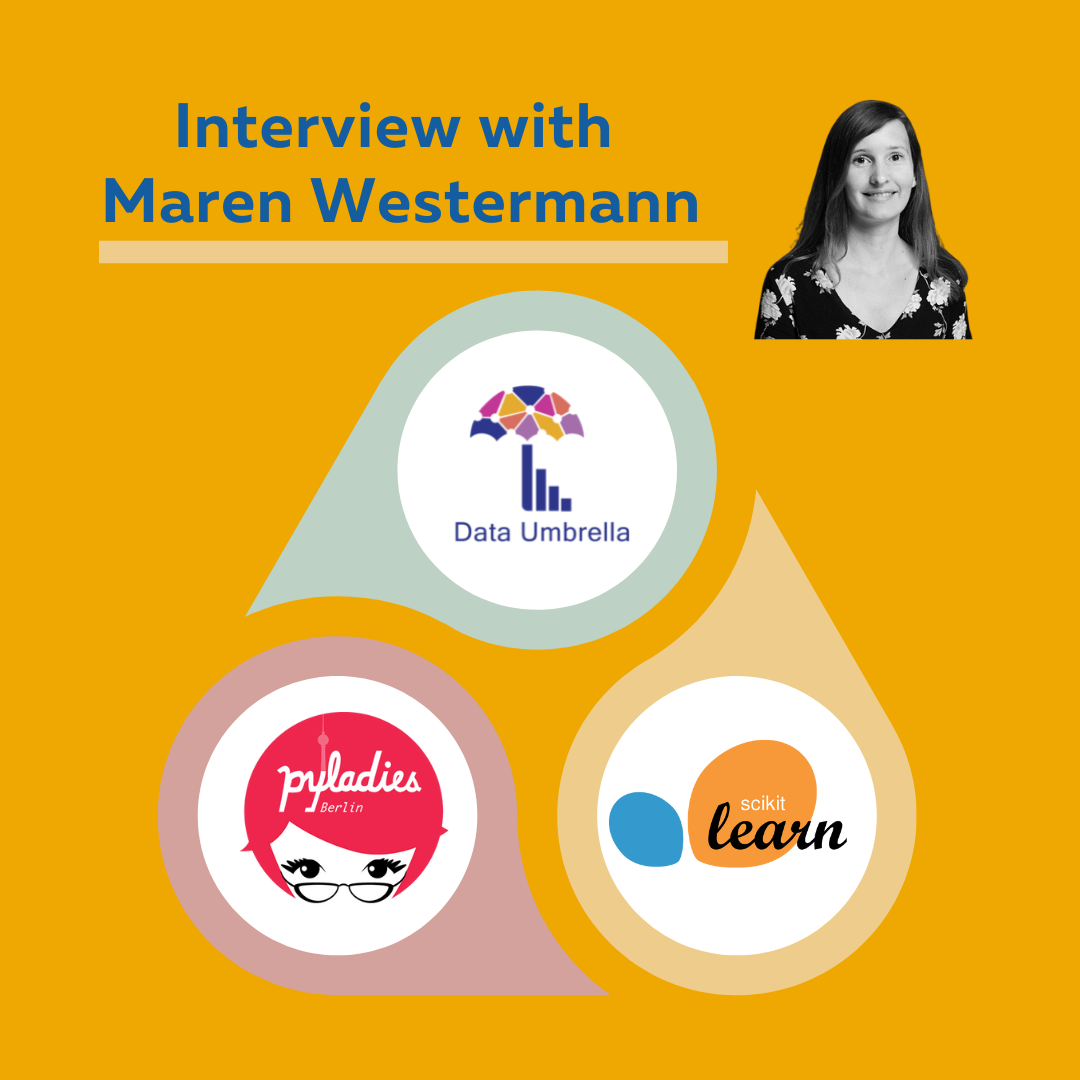
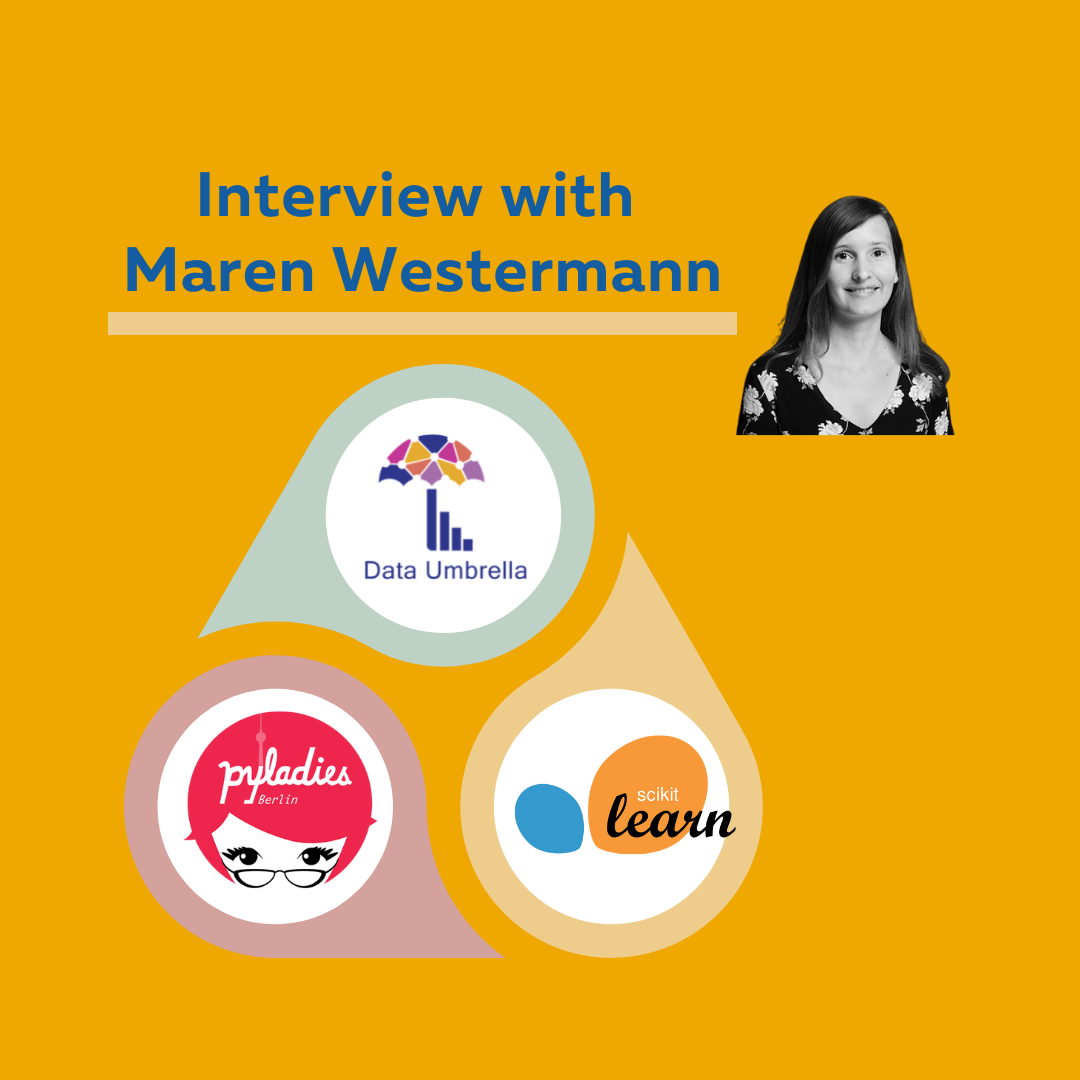
resize cover photo

diff --git a/_posts/2022-03-28-mwestermann-sprints-experience.md b/_posts/2022-03-28-mwestermann-sprints-experience.md
@@ -1,7 +1,7 @@
 ---
 layout: post
 title:  "Interview with Maren Westermann: Extending the Impact of the scikit-learn Sprints to the Community"
-description: Maren Westermann shares her learnings from taking part in Data Umbrella scikit-learn sprints
+description: Maren Westermann shares her learnings from taking part in Data Umbrella scikit-learn sprints.
 date:   2022-03-28 17:44:03 +0200
 image:  '/images/blogs/maren_interview.png'
 tags:   [opensource]
